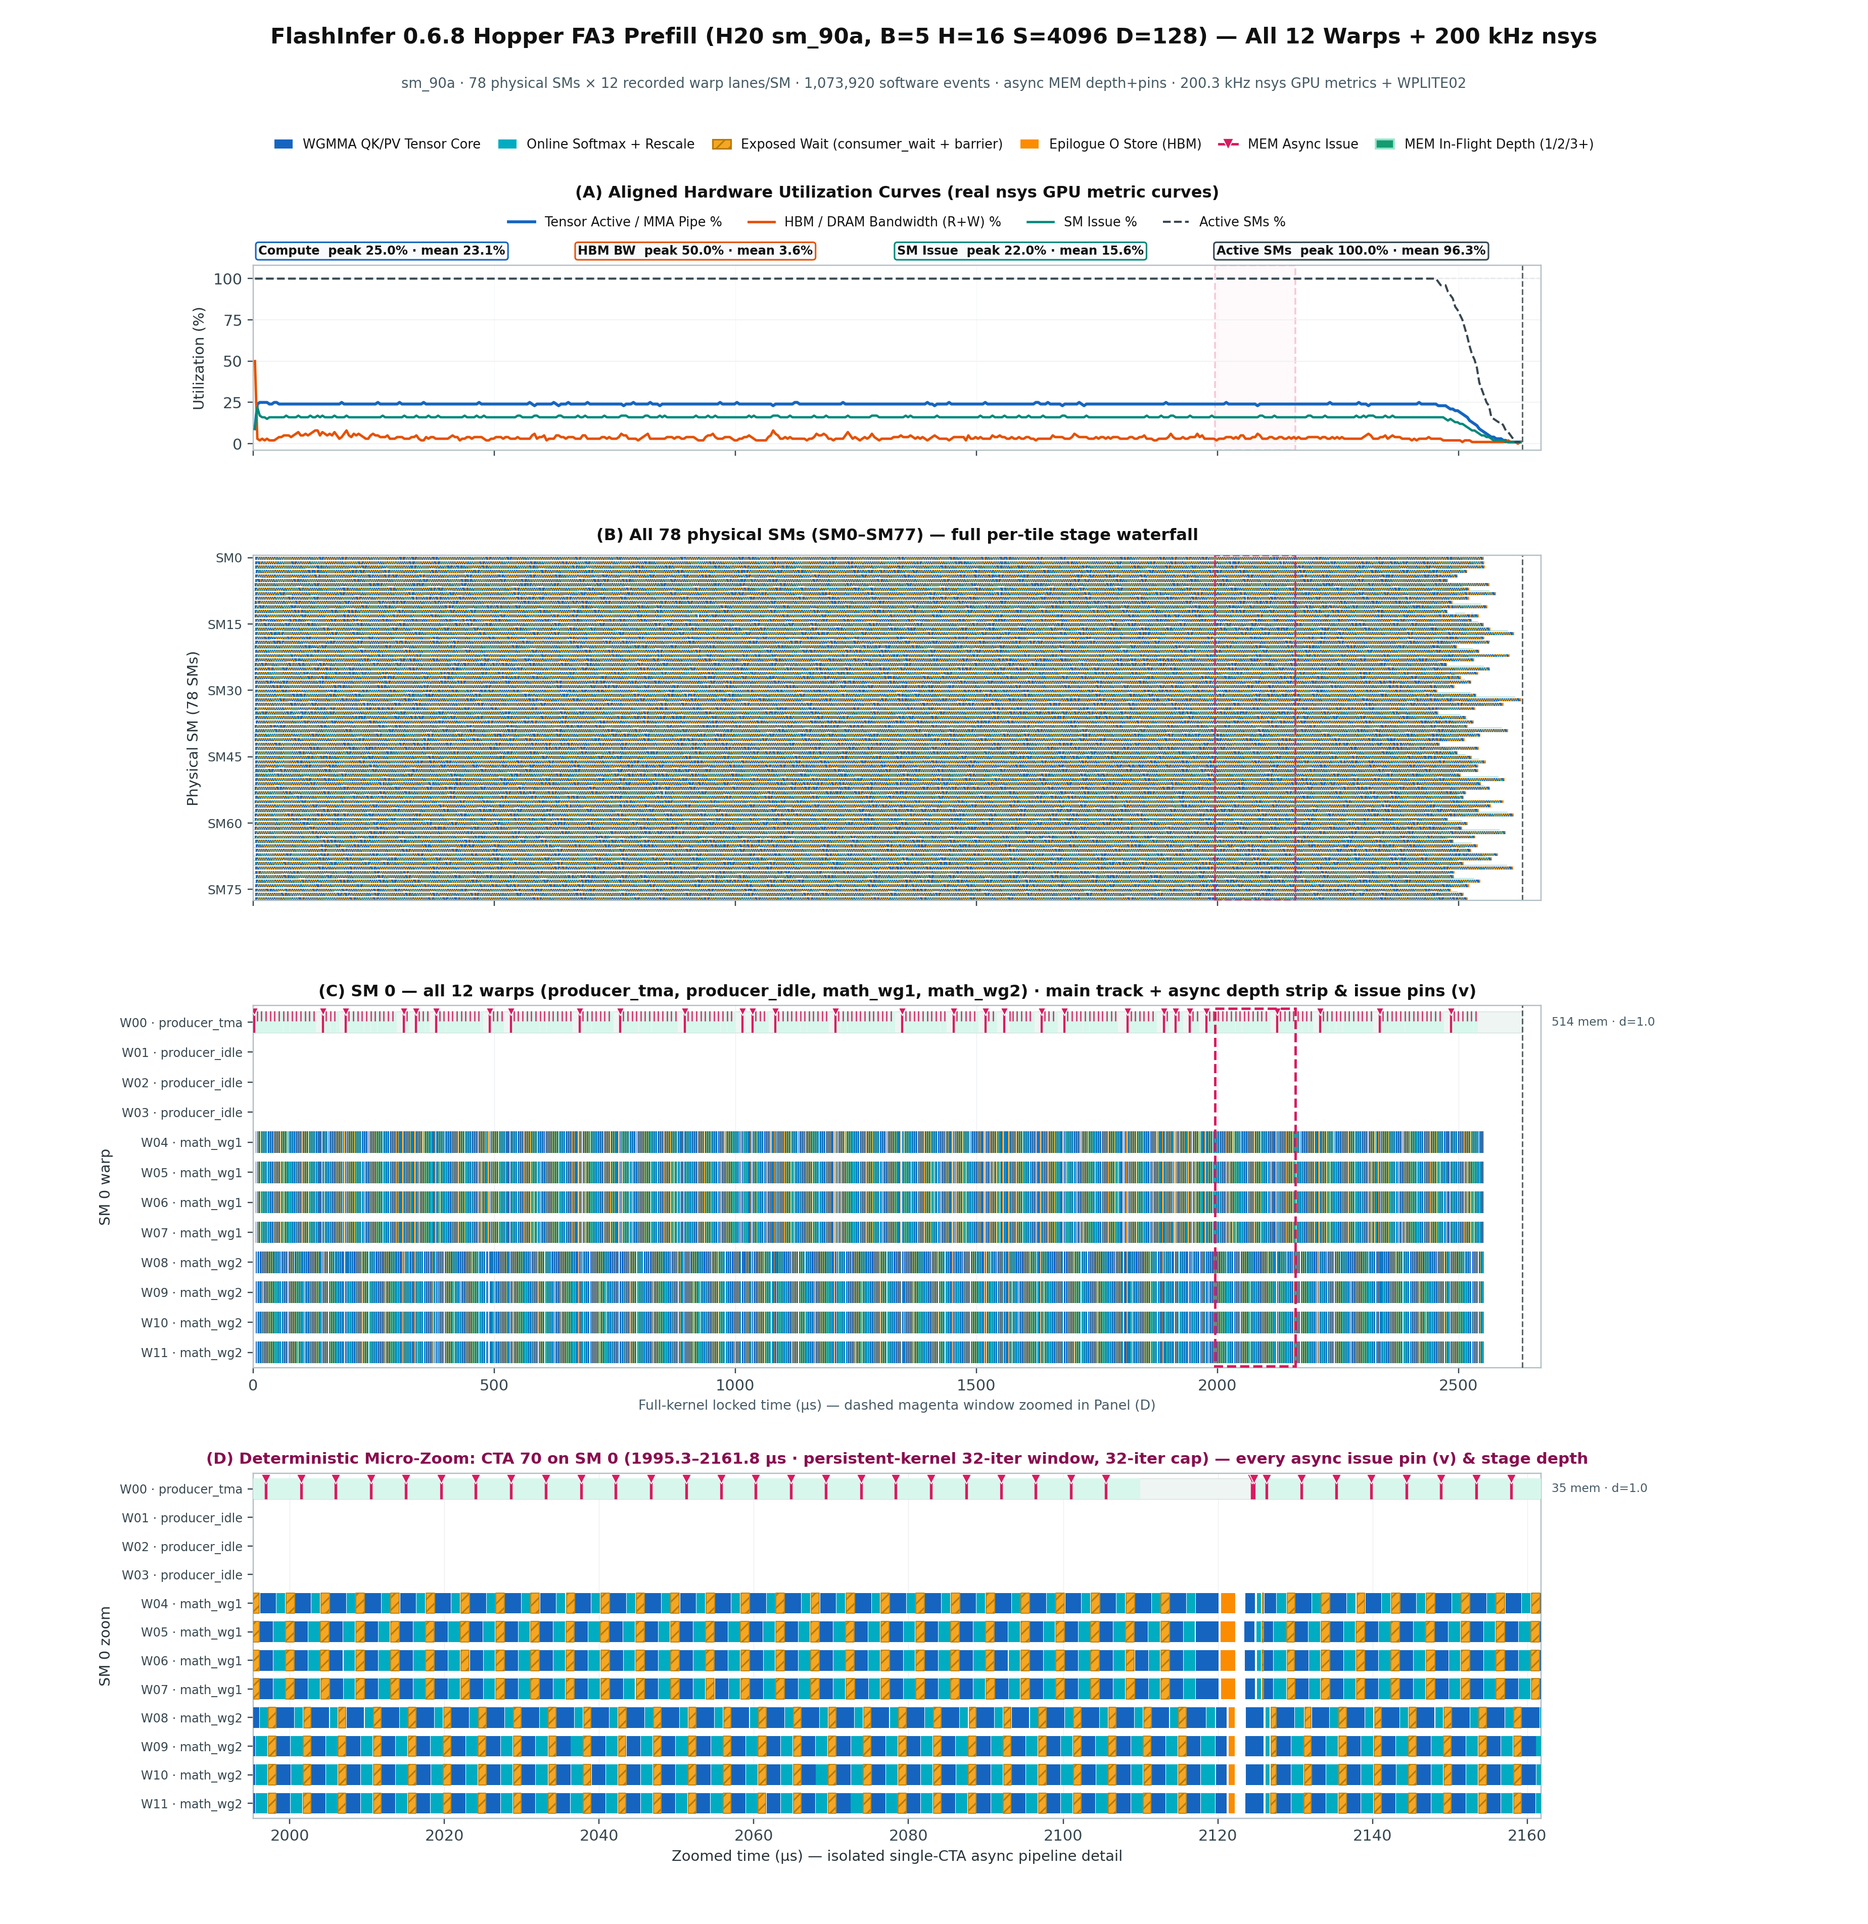
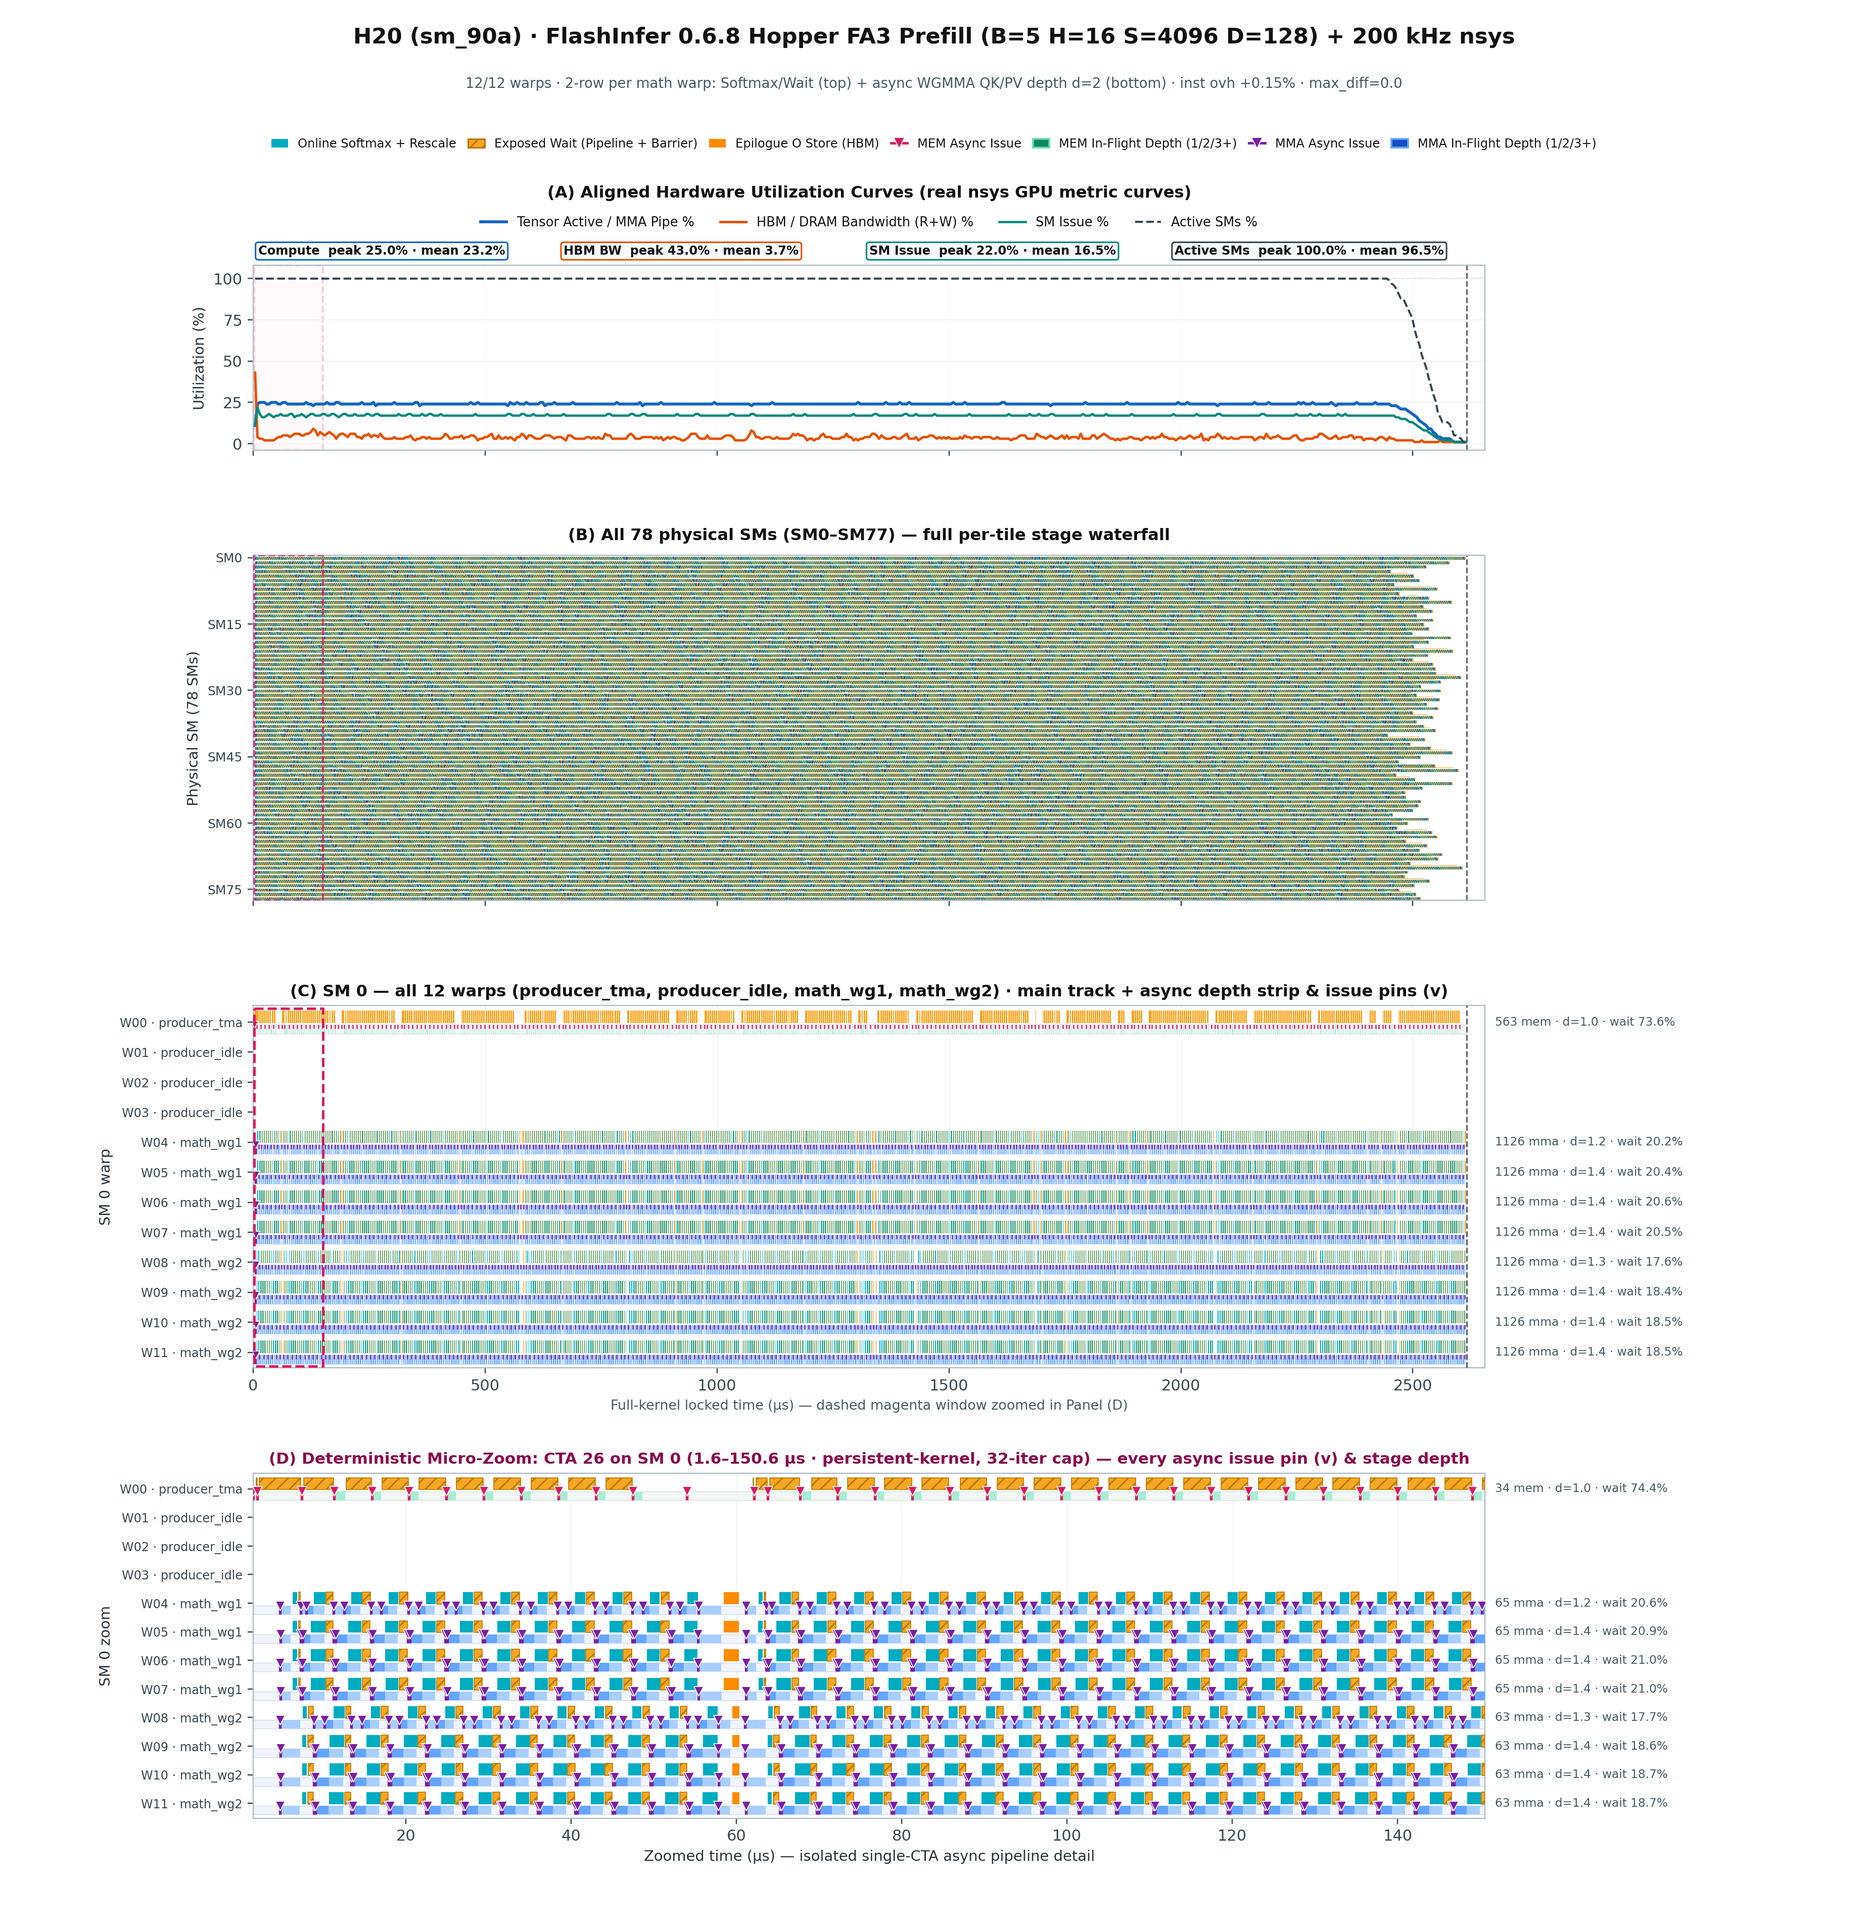
feat(viz,docs): separate async WGMMA depth row from Softmax main row with crisp 5-shade palette and updated FA3/FlashMLA 4-panel PNGs

diff --git a/weaveprof/viz.py b/weaveprof/viz.py
@@ -71,8 +71,8 @@ _ASYNC_ENGINE_STYLE: Dict[str, Dict[str, Any]] = {
     "mem": {
         "short": "mem",
         # 5 perceptually distinct shades for shallow (1-3) and deep (4-8+) async pipelines
-        "depth_colors": ("#D8F7EC", "#96E6CA", "#46C89B", "#149C72", "#075E45"),
-        "rail_bg": "#EFF5F3",
+        "depth_colors": ("#A7ECD4", "#63D9B0", "#22B585", "#0E8760", "#055039"),
+        "rail_bg": "#F2F7F5",
         "rail_ec": "#D2E0DC",
         "pin_color": "#D81B60",                              # vivid magenta ▼
         "pin_label": "Mem Async Issue (v)",
@@ -81,8 +81,8 @@ _ASYNC_ENGINE_STYLE: Dict[str, Dict[str, Any]] = {
     },
     "mma": {
         "short": "mma",
-        "depth_colors": ("#DCEBFF", "#96C2FA", "#4A90E8", "#1D5FD1", "#0D3482"),
-        "rail_bg": "#EEF3FA",
+        "depth_colors": ("#A8CEFF", "#64A5FA", "#2D77E5", "#154EC2", "#092B75"),
+        "rail_bg": "#F1F5FB",
         "rail_ec": "#CFDCEB",
         "pin_color": "#7B1FA2",                              # vivid violet ▼
         "pin_label": "MMA Async Issue (v)",
@@ -1113,9 +1113,10 @@ def _render_warp_panel(
             # Pure-async Producer warp (e.g. TMA Producer): fill full row height with depth strip + ▼ pins
             row_geom[r] = ((r - 0.36, r + 0.36), {engs[0]: (r - 0.36, r + 0.36)})
         elif len(engs) == 1:
-            row_geom[r] = ((r - 0.38, r + 0.12), {engs[0]: (r + 0.15, r + 0.38)})
+            # Clean two-row split: upper main track (Softmax/ALU/Wait/Store) + lower async depth row (MEM or MMA)
+            row_geom[r] = ((r - 0.39, r + 0.03), {engs[0]: (r + 0.09, r + 0.39)})
         else:
-            row_geom[r] = ((r - 0.39, r + 0.01), {"mem": (r + 0.04, r + 0.20), "mma": (r + 0.23, r + 0.39)})
+            row_geom[r] = ((r - 0.40, r - 0.04), {"mem": (r + 0.01, r + 0.18), "mma": (r + 0.23, r + 0.40)})
 
     # 1) Draw Main Execution Track spans
     verts_by_color: Dict[str, List[List[Tuple[float, float]]]] = defaultdict(list)

diff --git a/SKILL.md b/SKILL.md
@@ -34,6 +34,7 @@ WeaveProfiler couples two modules in an iterative verification loop without modi
    - **Structured Handoff & PNG-First Visual Delivery (`<run>/overview.png`, `<run>/feedback.json`, `<run>/verify.json`, `<run>/seal.json`)**:
      - By default, `run_megakernel_audit` (`render_overview_png=True`, `write_perfetto_gz=False`) and `wp.profile` auto-render a single-run **4-panel SW+HW overview PNG (`overview.png`, ~250–600 KB, ~1.4–2.5 s locally)** via `weaveprof/viz.py` on one locked microsecond axis across **both NVIDIA (`SM`/`warp`, `nsys`) and AMD MI308X (`CU`/`wave`, `rocprofiler-sdk` / `rocprof-sys`)**: **(A)** same-run real hardware utilization curves (`Compute / MFMA / Tensor Active`, `HBM Read+Write BW` summed across the shared DRAM bus, separate full-duplex `NVLink TX` and `NVLink RX` curves — NEVER summed or merged — or `xGMI` on AMD, optional `Inter-Node RDMA NIC` curve or honest HCA unavailable footnote, `Active SMs / CUs`), **(B)** all physical SMs/CUs dense multi-stage / dual-fabric waterfall, **(C)** single-SM / single-CU per-warp/wave timeline (upper main execution track + 0/1/2 on-demand thin async engine depth sub-tracks for `MEM` green / `MMA` blue with fixed-pixel `▼` issue pins), and **(D)** automatic deterministic single-CTA micro-zoom when full-kernel spacing is denser than `28 px` (`--zoom-cta` / `--zoom-window` overrides supported).
      - **Rich Stage Naming & Intra-Node vs Inter-Node Dual-Color Fabrics**: Every probe in `<run>/probe.json` should carry a descriptive algorithmic/fabric `id`, human-readable `label` (e.g., `"KV Tile Load (TMA)"`, `"QK^T Score MMA"`, `"Online Softmax (exp/rescale)"`, `"GEMM1 (FC1+SwiGLU)"`, `"GEMM2 (FC2)"`), and `fabric` scope (`on_chip`, `intra_node_nvlink`, `intra_node_xgmi`, `inter_node_rdma`, `inter_node_ib`) — never lazy bare `"load"` / `"mma"` labels. On multi-node traces (e.g., 2-node EP16 MI308X or H20/B300), `weaveprof/viz.py` automatically separates **Inter-Node RDMA / IB** (warm crimson `#D62728` / amber `#F28E2B`) from **Intra-Node xGMI / NVLink** (cool teal `#009FB7` / royal blue `#2563EB`) with side-by-side Panel B & C fabric legends and `>= 2 px` crisp rendering for streaming Combine/Reduce slices.
+     - **Async MMA vs. Main-Track Row Separation Rule (Hopper `wgmma` / Blackwell `tcgen05` + Softmax/Epilogue)**: Whenever a kernel issues asynchronous Tensor Core MMA (`wgmma.mma_async`, `tcgen05.mma`)—especially when followed by or overlapped with non-MMA main-track stages like `Online Softmax`, `Rescale`, `Exposed Wait`, or `Epilogue Store`—register the async MMA event in `<run>/names.json` with `"async_engines": {"<mma_ev>": "mma"}` and `"slotted_events": {"<mma_ev>": {"id": "...", "slot": "k", "cross_warp": false}}` (marking distinct concurrent groups e.g. `QK=0u`, `PV=1u`), while keeping `Softmax` / `Wait` / `Store` on the upper main track. This renders **two clearly separated aligned rows per warp**: the upper main execution row (`Softmax` / `Wait` / `Store`) and the lower `MMA` async depth row (violet `▼` issue pins + 5-shade blue in-flight depth strip), directly exposing both MMA in-flight depth (`d=1/2/...`) and true MMA↔Softmax overlap.
      - No `.perfetto.json.gz` is written by default (pass `write_perfetto_gz=True` only when explicitly requesting raw Perfetto JSON export, or render offline via `weaveprof render <trace> -o overview.png`).
      - Alongside `overview.png`, `run_megakernel_audit` returns a `<2 KB` structured causal JSON report containing `hw_quartiles` (`[Q1..Q4]`), `stage_summary`, `megakernel_skew`, `causal_opportunities`, and `fidelity_gates` so both multimodal and text-only agents can diagnose bottlenecks directly.
 

diff --git a/README.md b/README.md
@@ -31,7 +31,7 @@ WeaveProfiler 把**自动低开销核内插桩**和**同次 200 kHz 硬件利用
 
 - **(A) 硬件利用率曲线**：同次采集的整卡指标（0–100%，NVIDIA 为 200 kHz `nsys`，AMD 为 `rocprof-sys`），含计算流水线（Tensor / MFMA）、HBM 读+写总带宽、独立绘制的全双工互联（`NVLink TX` 与 `NVLink RX` 绝不合并；AMD 为 `xGMI`）、可选跨机 RDMA 以及活跃 SM/CU 占比；**缺少同次真实硬件曲线时默认失败退出（fail-closed）**。
 - **(B) 全卡物理 SM / CU 瀑布**：纵轴列出全部物理核心，直观暴露波次台阶、尾波拖尾与负载倾斜。
-- **(C) 单个 SM / CU 的全物理 Warp / Wave 时间线**：每个 Warp 分为「**上层主执行轨（MMA / 亮黄斜纹 `Exposed Wait` / Store）+ 下层按需 0/1/2 条极薄异步引擎副轨（Mem 绿带 + 洋红发射针 `▼`；MMA 蓝带 + 深紫发射针 `▼`）**」，用 **5 档渐变热力带**（`1/2/3/4/5+`，更深流水自动动态分桶）压缩任意 `num_stages` 并发深度。
+- **(C) 单个 SM / CU 的全物理 Warp / Wave 时间线**：每个 Warp 自动分为独立多行——「**上行主执行轨（Softmax / 标量计算 / 亮黄斜纹 `Exposed Wait` / Store，以及同步 MMA）+ 下行按需 0/1/2 条异步引擎副轨（Mem 绿带 + 洋红发射针 `▼`；异步 GEMM/WGMMA/`tcgen05` 蓝带 + 深紫发射针 `▼`）**」，异步 MMA 与后续 Softmax 天然分行并排重叠，用 **5 档渐变热力带**（`1/2/3/4/5+`，更深流水自动动态分桶）直显在途并发深度。
 - **(D) 单 CTA 微距放大（Zoom-In）**：全核过密时自动触发，确定性选取 `Exposed Wait` 占比最高的完整 CTA（无等待时取稳态中位数 CTA；超 48 拍截最重气泡周围 32 拍，支持 `--zoom-cta` / `--zoom-window` 手动指定），逐拍展示发射针、在途深度爬坡/排空与等待气泡；(A)–(C) 栏同步用洋红虚线框标出放大区间。
 
 ![NVIDIA H20 Triton num_stages=5 PTX 自动双异步四联对齐图](docs/images/case_h20_triton_s5_4panel.png)
@@ -87,7 +87,7 @@ WeaveProfiler 把**自动低开销核内插桩**和**同次 200 kHz 硬件利用
 
 | 开源算子 | 前端与规模（H20 `sm_90a`） | 物理 Warp 覆盖 | 稳态相对开销与实测结果 |
 | --- | --- | :---: | --- |
-| **FlashInfer 0.6.8 Hopper FA3**（跨 3 头文件） | CUDA C++，`B=5, H=16, S=4096, D=128` | 12 / 12 | **`+0.13%`**（`2,629 → 2,633 µs`），软硬边界差 `0.08%`，Panel (D) 清晰呈现 `W00` TMA 预取与双计算组反相 Ping-Pong 调度 |
+| **FlashInfer 0.6.8 Hopper FA3**（跨 3 头文件） | CUDA C++，`B=5, H=16, S=4096, D=128` | 12 / 12 | **`+0.15%`**（`2,618 → 2,622 µs`），软硬边界差 `0.08%`；Panel (D) 每条计算 Warp 上下两行分轨——上行 `Online Softmax / Wait`，下行异步 `WGMMA QK+PV` 在途深度（`d=1/2`）与 `Softmax` 真重叠 |
 | **FlashInfer 0.6.8 Hopper FlashMLA**（`mla_hopper.cuh`） | CUDA C++，`B=64, H=128, KV=2048` | 8 / 8 | **`+7.45%`**（`356 → 383 µs`），**`0 B` spill**，软硬边界差 `0.50%`；自动选取满载双波次 `SM 2`，Panel (D) 直接定位 `WG0` 在 `kOScaleReady` 上 `47.3%` 的等待对齐 `WG1` 的 `QK + Softmax` |
 | **vLLM FLA FlashKDA**（`chunk_delta_h.py`） | Triton 3.6 PTX 自动异步，`B=1, T=8192, H=64, D=128` | 4 / 4 | 第 1 轮双异步 `+18.77%` 被拦截 → 闭环粗化后 **`+4.08%`**（`544 → 566 µs`），**`0` spill**，软硬边界差 `0.21%`，Panel (D) 完整展开每轮 5 级 `cp.async` 深度与 `Exposed Wait` |
 

diff --git a/README_EN.md b/README_EN.md
@@ -31,7 +31,7 @@ WeaveProfiler defaults to PNG-only delivery (`overview.png`) instead of heavy `.
 
 - **(A) Hardware Utilization Curves**: Same-run chip-wide metrics (0–100%, 200 kHz `nsys` on NVIDIA, `rocprof-sys` on AMD): Compute (Tensor / MFMA), summed HBM Read+Write bandwidth, separate full-duplex interconnect (`NVLink TX` and `NVLink RX` are never summed or merged; `xGMI` on AMD), optional inter-node RDMA, and active SM/CU %. **Fails closed if real same-run hardware curves are missing.**
 - **(B) All-SM / All-CU Waterfall**: Every physical core on the vertical axis, exposing wave steps, tail stragglers, and load skew.
-- **(C) Single-SM / Single-CU Per-Warp / Per-Wave Timeline**: Each warp combines an **upper main execution track (`MMA` / amber hatched `Exposed Wait` / `Store`) + 0/1/2 on-demand thin async engine depth sub-tracks (`MEM` emerald depth strip + magenta issue pins `▼`; `MMA` azure depth strip + violet issue pins `▼`)**, compressing arbitrary `num_stages` concurrency into a **5-shade depth band** (`1/2/3/4/5+`, with dynamic bucketing for deeper pipelines).
+- **(C) Single-SM / Single-CU Per-Warp / Per-Wave Timeline**: Each warp separates cleanly into stacked rows—an **upper main execution row (`Softmax` / scalar ALU / amber hatched `Exposed Wait` / `Store`, or synchronous MMA) + 0/1/2 on-demand async engine depth rows below (`MEM` emerald strip + magenta issue pins `▼`; async `GEMM/WGMMA/tcgen05` azure strip + violet issue pins `▼`)**—so async GEMM in-flight depth (`1/2/3/4/5+` 5-shade band) and its overlap with following `Softmax` / epilogue stages appear on separate aligned rows.
 - **(D) Deterministic Single-CTA Micro-Zoom**: Auto-triggered on dense timelines; isolates the complete CTA with highest `Exposed Wait` ratio (or steady-state p50 CTA when wait-free; caps >48 iterations to a 32-iteration window around the worst bubble; supports `--zoom-cta` / `--zoom-window`), highlighting the exact window in dashed magenta across Panels (A)–(C).
 
 ![NVIDIA H20 Triton num_stages=5 PTX Auto-Async Four-Panel Aligned View](docs/images/case_h20_triton_s5_4panel.png)
@@ -87,7 +87,7 @@ Closed-loop profiling on unmodified open-source libraries at production long-seq
 
 | Open-Source Kernel | Frontend & Shape (H20 `sm_90a`) | Warp Coverage | Steady-State Overhead & Highlights |
 | --- | --- | :---: | --- |
-| **FlashInfer 0.6.8 Hopper FA3** (3 headers) | CUDA C++, `B=5, H=16, S=4096, D=128` | 12 / 12 | **`+0.13%`** (`2,629 → 2,633 µs`), SW–HW delta `0.08%`; Panel (D) exposes `W00` TMA prefetch and antiphase ping-pong scheduling across `math_wg1`/`math_wg2` |
+| **FlashInfer 0.6.8 Hopper FA3** (3 headers) | CUDA C++, `B=5, H=16, S=4096, D=128` | 12 / 12 | **`+0.15%`** (`2,618 → 2,622 µs`), SW–HW delta `0.08%`; Panel (D) splits every math warp into two aligned rows—`Online Softmax / Wait` on top and async `WGMMA QK+PV` in-flight depth (`d=1/2`) overlapping Softmax below |
 | **FlashInfer 0.6.8 Hopper FlashMLA** (`mla_hopper.cuh`) | CUDA C++, `B=64, H=128, KV=2048` | 8 / 8 | **`+7.45%`** (`356 → 383 µs`), **`0 B` spill**, SW–HW delta `0.50%`; auto-selects full 2-wave `SM 2`, and Panel (D) locks `WG0`'s `47.3%` `kOScaleReady` wait directly onto `WG1`'s `QK + Softmax` |
 | **vLLM FLA FlashKDA** (`chunk_delta_h.py`) | Triton 3.6 PTX Auto-Async, `B=1, T=8192, H=64, D=128` | 4 / 4 | Round 1 dual-async `+18.77%` rejected → closed-loop coarsened to **`+4.08%`** (`544 → 566 µs`), **`0` spill**, SW–HW delta `0.21%`; Panel (D) exposes 5-stage `cp.async` ramps and `Exposed Wait` |
 
